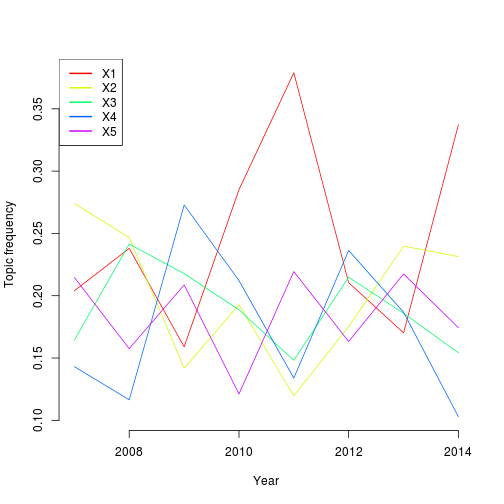
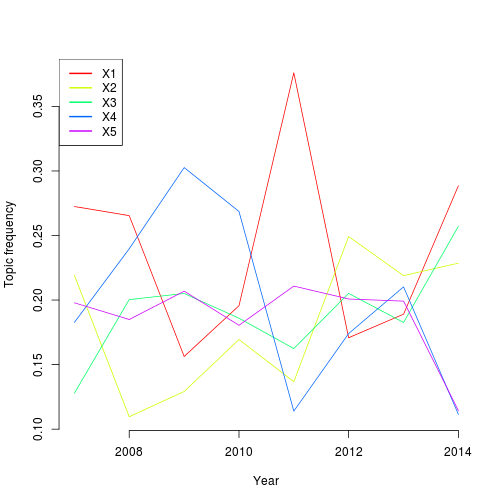
fix #2

diff --git a/howto/howto_corpus.md b/howto/howto_corpus.md
@@ -143,17 +143,17 @@ head(terms, n = 10)
 ## blog                     blog          4  FALSE    FALSE        9       3
 ## Bush                     Bush          4  FALSE    FALSE      311     115
 ## can                       can          3  FALSE    FALSE      171     116
-##                   tfidf
-## accuracy       0.036326
-## administration 0.029439
-## America        0.015922
-## answer         0.031095
-## anyone         0.031019
-## ask            0.020624
-## be             0.005354
-## blog           0.109372
-## Bush           0.040001
-## can            0.017838
+##                reldocfreq    tfidf
+## accuracy         0.008902 0.036326
+## administration   0.075668 0.029439
+## America          0.265579 0.015922
+## answer           0.028190 0.031095
+## anyone           0.020772 0.031019
+## ask              0.129080 0.020624
+## be               0.940653 0.005354
+## blog             0.004451 0.109372
+## Bush             0.170623 0.040001
+## can              0.172107 0.017838
 ```
 
 
@@ -172,17 +172,28 @@ head(voca, n = 10)
 ```
 
 ```
-##              term characters number nonalpha termfreq docfreq    tfidf
-## Iraq         Iraq          4  FALSE    FALSE     2156     634 0.002162
-## source     source          6  FALSE    FALSE      678     545 0.002974
-## politics politics          8  FALSE    FALSE      520     512 0.003675
-## conflict conflict          8  FALSE    FALSE      538     515 0.003680
-## have         have          4  FALSE    FALSE     2397     577 0.005515
-## East         East          4  FALSE    FALSE      444     433 0.006173
-## Middle     Middle          6  FALSE    FALSE      445     433 0.006179
-## Category Category          8  FALSE    FALSE     4202     624 0.006291
-## United     United          6  FALSE    FALSE      707     409 0.008642
-## say           say          3  FALSE    FALSE     1517     483 0.008674
+##              term characters number nonalpha termfreq docfreq reldocfreq
+## Iraq         Iraq          4  FALSE    FALSE     2156     634     0.9407
+## source     source          6  FALSE    FALSE      678     545     0.8086
+## politics politics          8  FALSE    FALSE      520     512     0.7596
+## conflict conflict          8  FALSE    FALSE      538     515     0.7641
+## have         have          4  FALSE    FALSE     2397     577     0.8561
+## East         East          4  FALSE    FALSE      444     433     0.6424
+## Middle     Middle          6  FALSE    FALSE      445     433     0.6424
+## Category Category          8  FALSE    FALSE     4202     624     0.9258
+## United     United          6  FALSE    FALSE      707     409     0.6068
+## say           say          3  FALSE    FALSE     1517     483     0.7166
+##             tfidf
+## Iraq     0.002162
+## source   0.002974
+## politics 0.003675
+## conflict 0.003680
+## have     0.005515
+## East     0.006173
+## Middle   0.006179
+## Category 0.006291
+## United   0.008642
+## say      0.008674
 ```
 
 
@@ -224,13 +235,20 @@ head(terms.bush)
 ```
 
 ```
-##   term characters number nonalpha termfreq.x docfreq   tfidf termfreq.y
-## 1               0  FALSE    FALSE          1       1 0.01956          1
-## 2   >>          2  FALSE     TRUE          2       2 0.05667          0
-## 3    |          1  FALSE     TRUE        138      51 0.02090        519
-## 4   __          2  FALSE    FALSE          2       2 0.01664          8
-## 5    *          1  FALSE     TRUE         16      16 0.01744         64
-## 6    %          1  FALSE     TRUE         71      14 0.05040         98
+##   term characters number nonalpha termfreq.x docfreq reldocfreq   tfidf
+## 1               0  FALSE    FALSE          1       1   0.008696 0.01956
+## 2   >>          2  FALSE     TRUE          2       2   0.017391 0.05667
+## 3    |          1  FALSE     TRUE        138      51   0.443478 0.02090
+## 4   __          2  FALSE    FALSE          2       2   0.017391 0.01664
+## 5    *          1  FALSE     TRUE         16      16   0.139130 0.01744
+## 6    %          1  FALSE     TRUE         71      14   0.121739 0.05040
+##   termfreq.y
+## 1          1
+## 2          0
+## 3        519
+## 4          8
+## 5         64
+## 6         98
 ```
 
 
@@ -248,28 +266,28 @@ head(terms.bush, n = 10)
 ```
 
 ```
-##                term characters number nonalpha termfreq.x docfreq    tfidf
-## 541            Bush          4  FALSE    FALSE        311     115 0.000000
-## 2830      President          9  FALSE    FALSE        177      82 0.005675
-## 1531         George          6  FALSE    FALSE         92      65 0.007598
-## 3920             W.          2  FALSE     TRUE         78      59 0.008545
-## 3937            war          3  FALSE    FALSE        155      54 0.013838
-## 80   administration         14  FALSE    FALSE         67      39 0.013215
-## 1712          House          5  FALSE    FALSE         78      44 0.012347
-## 2310           memo          4  FALSE    FALSE         49      13 0.047050
-## 793        Congress          8  FALSE    FALSE         53      26 0.023120
-## 3983          White          5  FALSE    FALSE         52      29 0.016142
-##      termfreq.y relfreq.x relfreq.y   over
-## 541           0  0.013227 0.0000000 13.227
-## 2830         75  0.007528 0.0008940  3.975
-## 1531         14  0.003913 0.0001669  3.353
-## 3920          5  0.003317 0.0000596  3.131
-## 3937        131  0.006592 0.0015615  2.574
-## 80           14  0.002849 0.0001669  2.442
-## 1712         44  0.003317 0.0005245  2.176
-## 2310          9  0.002084 0.0001073  1.882
-## 793          18  0.002254 0.0002146  1.856
-## 3983         19  0.002212 0.0002265  1.803
+##                term characters number nonalpha termfreq.x docfreq
+## 541            Bush          4  FALSE    FALSE        311     115
+## 2830      President          9  FALSE    FALSE        177      82
+## 1531         George          6  FALSE    FALSE         92      65
+## 3920             W.          2  FALSE     TRUE         78      59
+## 3937            war          3  FALSE    FALSE        155      54
+## 80   administration         14  FALSE    FALSE         67      39
+## 1712          House          5  FALSE    FALSE         78      44
+## 2310           memo          4  FALSE    FALSE         49      13
+## 793        Congress          8  FALSE    FALSE         53      26
+## 3983          White          5  FALSE    FALSE         52      29
+##      reldocfreq    tfidf termfreq.y relfreq.x relfreq.y   over
+## 541      1.0000 0.000000          0  0.013227 0.0000000 13.227
+## 2830     0.7130 0.005675         75  0.007528 0.0008940  3.975
+## 1531     0.5652 0.007598         14  0.003913 0.0001669  3.353
+## 3920     0.5130 0.008545          5  0.003317 0.0000596  3.131
+## 3937     0.4696 0.013838        131  0.006592 0.0015615  2.574
+## 80       0.3391 0.013215         14  0.002849 0.0001669  2.442
+## 1712     0.3826 0.012347         44  0.003317 0.0005245  2.176
+## 2310     0.1130 0.047050          9  0.002084 0.0001073  1.882
+## 793      0.2261 0.023120         18  0.002254 0.0002146  1.856
+## 3983     0.2522 0.016142         19  0.002212 0.0002265  1.803
 ```
 
 
@@ -310,7 +328,7 @@ so by matching the ids in the meta file with the (numeric) row names we can put 
 
 ```r
 meta = amcat.getarticlemeta(conn, set = 10271, dateparts = T)
-years = meta$year[match(meta$id, as.numeric(rownames(dtm)))]
+years = meta$year[match(as.numeric(rownames(dtm)), meta$id)]
 dtm.before = dtm[years < as.Date("2012-01-01"), ]
 dtm.after = dtm[years >= as.Date("2012-01-01"), ]
 terms = amcat.compare.corpora(dtm.after, dtm.before)
@@ -375,48 +393,27 @@ top.topic.words(m$topics)
 ```
 
 ```
-##       [,1]        [,2]        [,3]         [,4]             
-##  [1,] "Abu"       "election"  "Iran"       "journalist"     
-##  [2,] "abuse"     "video"     "blast"      "Turkey"         
-##  [3,] "Ghraib"    "Blair"     "resolution" "Green"          
-##  [4,] "crash"     "oil"       "center"     "hostage"        
-##  [5,] "Australia" "Basra"     "Romania"    "raid"           
-##  [6,] "bill"      "poll"      "execution"  "Fallujah"       
-##  [7,] "Ford"      "memo"      "Syria"      "truck"          
-##  [8,] "Senator"   "sailor"    "company"    "gunman"         
-##  [9,] "girl"      "Obama"     "marine"     "mosque"         
-## [10,] "rape"      "Kurdistan" "embassy"    "son"            
-## [11,] "Reid"      "Nay"       "jail"       "Carroll"        
-## [12,] "Marines"   "Air"       "Petraeus"   "PKK"            
-## [13,] "Group"     "Royal"     "WikiNews"   "Workers"        
-## [14,] "Rights"    "Annan"     "brigade"    "phosphorus"     
-## [15,] "convoy"    "Sadr"      "Muqtada"    "Zone"           
-## [16,] "seat"      "voter"     "Musab"      "style"          
-## [17,] "Harry"     "Gates"     "tape"       "Allawi"         
-## [18,] "device"    "policeman" "Maliki"     "throw"          
-## [19,] "Jordan"    "roadside"  "Tehran"     "Cheney"         
-## [20,] "flight"    "crew"      "Basescu"    "Representatives"
-##       [,5]          
-##  [1,] "vote"        
-##  [2,] "helicopter"  
-##  [3,] "category"    
-##  [4,] "constitution"
-##  [5,] "accident"    
-##  [6,] "figure"      
-##  [7,] "Mosul"       
-##  [8,] "Brown"       
-##  [9,] "CIA"         
-## [10,] "Rumsfeld"    
-## [11,] "Talabani"    
-## [12,] "Diyala"      
-## [13,] "Muslims"     
-## [14,] "flag"        
-## [15,] "shooting"    
-## [16,] "Sgrena"      
-## [17,] "Human"       
-## [18,] "Italy"       
-## [19,] "City"        
-## [20,] "align"
+##       [,1]         [,2]         [,3]           [,4]         [,5]        
+##  [1,] "Abu"        "election"   "category"     "journalist" "Iran"      
+##  [2,] "abuse"      "vote"       "execution"    "helicopter" "oil"       
+##  [3,] "blast"      "Blair"      "constitution" "video"      "poll"      
+##  [4,] "Ghraib"     "Turkey"     "accident"     "Green"      "Syria"     
+##  [5,] "resolution" "Basra"      "sailor"       "crash"      "hostage"   
+##  [6,] "figure"     "center"     "Obama"        "Romania"    "bill"      
+##  [7,] "company"    "memo"       "count"        "Australia"  "truck"     
+##  [8,] "raid"       "Kurdistan"  "Senator"      "Mosul"      "Annan"     
+##  [9,] "Brown"      "CIA"        "Royal"        "Fallujah"   "marine"    
+## [10,] "Ford"       "gunman"     "Muslims"      "Nay"        "mosque"    
+## [11,] "Rumsfeld"   "Reid"       "flag"         "Air"        "shooting"  
+## [12,] "Sadr"       "Human"      "Group"        "rape"       "seat"      
+## [13,] "Rights"     "Carroll"    "Sgrena"       "Talabani"   "Harry"     
+## [14,] "convoy"     "align"      "son"          "Diyala"     "PKK"       
+## [15,] "device"     "jail"       "Italy"        "Marines"    "Workers"   
+## [16,] "Jordan"     "Muqtada"    "voter"        "Gates"      "China"     
+## [17,] "City"       "referendum" "brigade"      "policeman"  "flight"    
+## [18,] "embassy"    "style"      "Zone"         "Donald"     "Health"    
+## [19,] "roadside"   "Cheney"     "Howard"       "WikiNews"   "Rice"      
+## [20,] "Petraeus"   "abducted"   "draft"        "crew"       "restaurant"
 ```
 
 
@@ -435,18 +432,18 @@ head(docs)
 ```
 ##         id       date   medium length       year      month       week X1
 ## 1 81112681 2013-08-29 Wikinews    406 2013-01-01 2013-08-01 2013-08-26  0
-## 2 81112682 2012-01-20 Wikinews    149 2012-01-01 2012-01-01 2012-01-16  8
-## 3 81112683 2011-02-06 Wikinews    486 2011-01-01 2011-02-01 2011-01-31  2
+## 2 81112682 2012-01-20 Wikinews    149 2012-01-01 2012-01-01 2012-01-16  1
+## 3 81112683 2011-02-06 Wikinews    486 2011-01-01 2011-02-01 2011-01-31  0
 ## 4 81112684 2010-09-23 Wikinews    314 2010-01-01 2010-09-01 2010-09-20  0
-## 5 81112685 2013-08-30 Wikinews    394 2013-01-01 2013-08-01 2013-08-26  0
-## 6 81112686 2009-08-12 Wikinews    244 2009-01-01 2009-08-01 2009-08-10  7
+## 5 81112685 2013-08-30 Wikinews    394 2013-01-01 2013-08-01 2013-08-26  3
+## 6 81112686 2009-08-12 Wikinews    244 2009-01-01 2009-08-01 2009-08-10  0
 ##   X2 X3 X4 X5
-## 1  3  3  0  1
-## 2  1  0  3  2
-## 3  0  3  1  0
-## 4  0  0  3  4
-## 5  3  5  2  2
-## 6  1  0  0  9
+## 1  5  0  1  1
+## 2  2  5  1  5
+## 3  0  4  2  0
+## 4  0  3  4  0
+## 5  3  1  4  1
+## 6  0  2 15  0
 ```
 
 
